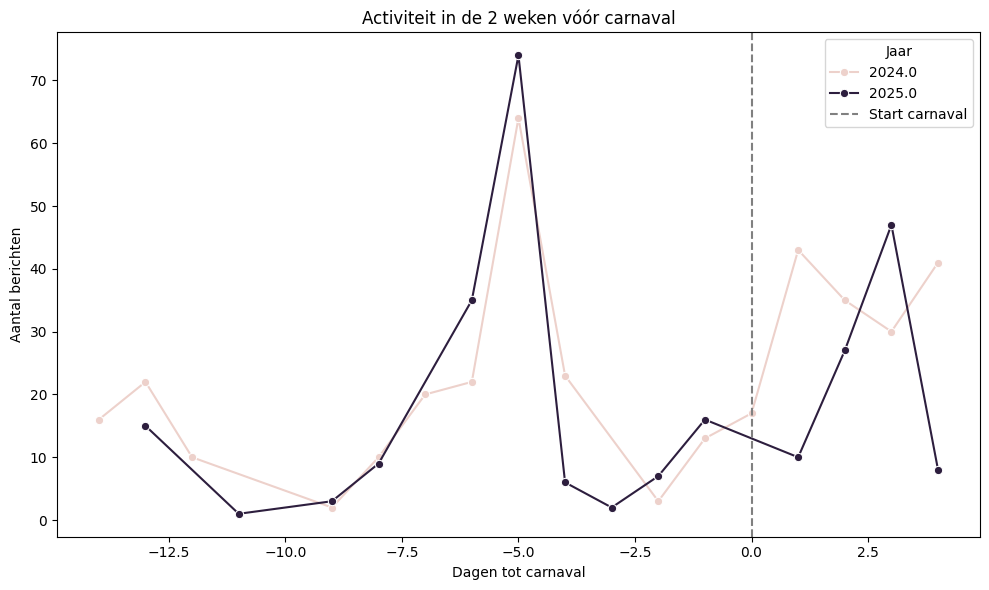
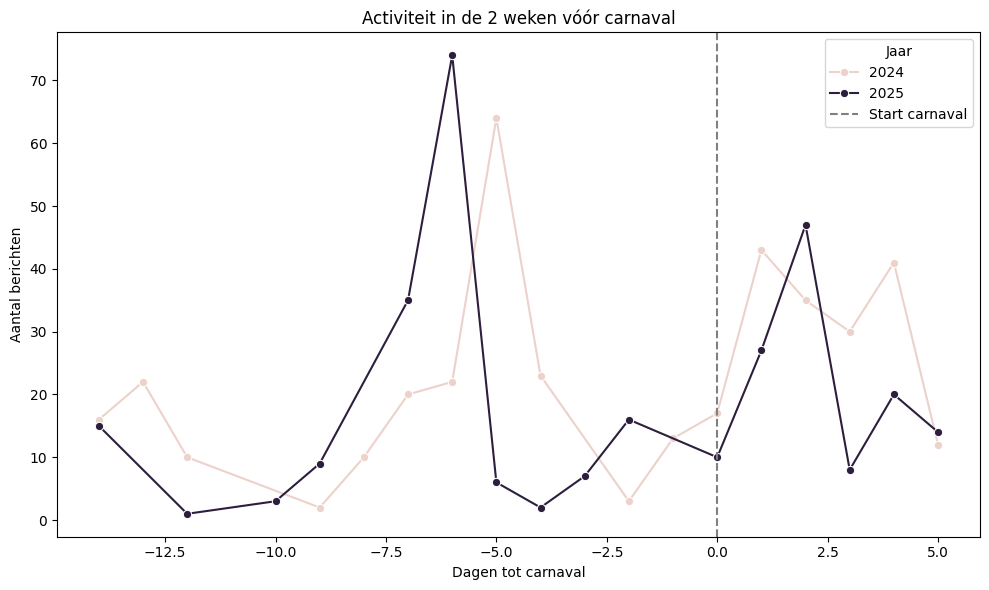
les3 in settings/fix uv lock

diff --git a/src/les3.py b/src/les3.py
@@ -1,55 +1,48 @@
-# src/les3.py
 from pathlib import Path
-
 import matplotlib.pyplot as plt
 import pandas as pd
 import seaborn as sns
 from loguru import logger
 
 
-# Visualisatie 1: Aantal berichten per week (globaal overzicht)
 def generate_weekly_overview_chart(df: pd.DataFrame, output_path: Path):
-    # Zorg dat timestamp een datetime is
-    df["timestamp"] = pd.to_datetime(df["timestamp"])
-
-    # Zet de week-startdatum in een aparte kolom
+    """
+    Genereert een lijnplot van het aantal berichten per week.
+    Carnavalperiodes worden automatisch gemarkeerd op basis van 'is_carnaval'.
+    """
     df["week"] = df["timestamp"].dt.to_period("W").apply(lambda r: r.start_time.date())
 
-    # Filter vanaf 1 september 2023
-    start_date = pd.to_datetime("2023-09-01").date()
-    df_filtered = df[df["week"] >= start_date]
+    # Tel berichten per week
+    weekly_counts = (
+        df.groupby("week")
+        .size()
+        .reset_index(name="message_count")
+    )
 
-    # Tel het aantal berichten per week
-    weekly_counts = df_filtered.groupby("week").size().reset_index(name="message_count")
+    # Carnavalweken uit 'is_carnaval'-kolom
+    carnaval_weken = (
+        df[df["is_carnaval"]]
+        .drop_duplicates("week")
+        .sort_values("week")["week"]
+        .tolist()
+    )
 
-    # Carnavalperiodes definiëren
-    carnavals = [
-        (
-            pd.to_datetime("2024-02-08").date(),
-            pd.to_datetime("2024-02-15").date(),
-            "Carnaval 2024",
-        ),
-        (
-            pd.to_datetime("2025-02-27").date(),
-            pd.to_datetime("2025-03-04").date(),
-            "Carnaval 2025",
-        ),
-    ]
+    carnaval_perioden = group_consecutive(carnaval_weken)
 
-    # Plot aanmaken
+    # Plot
     plt.figure(figsize=(14, 6))
     plt.plot(
         weekly_counts["week"],
         weekly_counts["message_count"],
-        label="Aantal berichten per week",
         color="tab:blue",
+        label="Aantal berichten per week"
     )
 
     # Carnaval visueel markeren
-    for start, end, label in carnavals:
-        plt.axvspan(start, end, color="orange", alpha=0.3, label=label)
+    for i, (start, end) in enumerate(carnaval_perioden):
+        plt.axvspan(start, end, color="orange", alpha=0.3, label=f"Carnaval {i + 1}")
 
-    # Dubbele labels uit de legenda filteren
+    # Legenda opschonen
     handles, labels = plt.gca().get_legend_handles_labels()
     by_label = dict(zip(labels, handles))
     plt.legend(by_label.values(), by_label.keys())
@@ -61,56 +54,56 @@ def generate_weekly_overview_chart(df: pd.DataFrame, output_path: Path):
     plt.tight_layout()
 
     plt.savefig(output_path, bbox_inches="tight")
+    plt.close()
     logger.info(f"Afbeelding opgeslagen als: {output_path}")
 
 
-# Visualisatie 2: Zoom in op de 2 weken vóór carnaval
 def generate_carnaval_detail_chart(df: pd.DataFrame, output_path: Path):
-    # Carnaval startdata per jaar
-    carnaval_data = pd.DataFrame(
-        {
-            "year": [2024, 2025],
-            "start_date": [pd.Timestamp("2024-02-08"), pd.Timestamp("2025-02-27")],
-        }
+    """
+    Zoomt in op de 2 weken vóór en 5 dagen tijdens carnaval,
+    toont activiteit per dag (aantal berichten) per jaar.
+    """
+    df["date"] = df["timestamp"].dt.floor("D")
+    df["year"] = df["timestamp"].dt.year
+
+    # Vind de eerste dag van carnaval per jaar op basis van is_carnaval == True
+    carnaval_start = (
+        df[df["is_carnaval"]]
+        .groupby("year")["date"]
+        .min()
+        .reset_index()
+        .rename(columns={"date": "start_date"})
     )
 
-    # Bepaal bij welke carnavalsperiode een bericht hoort
-    def get_carnaval_year(ts):
-        for _, row in carnaval_data.iterrows():
-            start = row["start_date"]
-            if start - pd.Timedelta(days=14) <= ts <= start + pd.Timedelta(days=5):
-                return row["year"]
-        return None
+    if carnaval_start.empty:
+        logger.warning("Geen carnavalstartdatums gevonden.")
+        return
 
-    # Berekeningen starten
-    df["timestamp"] = pd.to_datetime(df["timestamp"])
-    df["carnaval_year"] = df["timestamp"].apply(get_carnaval_year)
-    df_carnaval = df[df["carnaval_year"].notna()].copy()
+    # Combineer met volledige df (dus niet alleen is_carnaval)
+    df = df.merge(carnaval_start, on="year", how="left")
+    df["days_until_carnaval"] = (df["date"] - df["start_date"]).dt.days
 
-    # Voeg startdatum carnaval toe
-    df_carnaval = df_carnaval.merge(
-        carnaval_data, left_on="carnaval_year", right_on="year", how="left"
-    )
+    # Filter alleen berichten in [-14, +5] rond carnaval
+    df_window = df[df["days_until_carnaval"].between(-14, 5)].copy()
 
-    # Bereken hoeveel dagen tot carnaval
-    df_carnaval["days_until_carnaval"] = (
-        df_carnaval["timestamp"].dt.floor("D") - df_carnaval["start_date"]
-    ).dt.days
+    if df_window.empty:
+        logger.warning("Geen berichten gevonden binnen het carnavalsvenster.")
+        return
 
-    # Tel aantal berichten per dag tot carnaval
+    # Aantal berichten per dag t.o.v. carnaval, per jaar
     agg = (
-        df_carnaval.groupby(["carnaval_year", "days_until_carnaval"])
+        df_window.groupby(["year", "days_until_carnaval"])
         .size()
         .reset_index(name="message_count")
     )
 
-    # Plot maken
+    # Plot
     plt.figure(figsize=(10, 6))
     sns.lineplot(
         data=agg,
         x="days_until_carnaval",
         y="message_count",
-        hue="carnaval_year",
+        hue="year",
         marker="o",
     )
     plt.axvline(0, color="gray", linestyle="--", label="Start carnaval")
@@ -121,15 +114,44 @@ def generate_carnaval_detail_chart(df: pd.DataFrame, output_path: Path):
     plt.tight_layout()
 
     plt.savefig(output_path, bbox_inches="tight")
+    plt.close()
     logger.info(f"Afbeelding opgeslagen als: {output_path}")
 
 
-# Wrapper-functie die beide grafieken aanmaakt vanuit main.py
-def generate_time_charts(df: pd.DataFrame, output_dir: Path):
+def generate_time_charts(df: pd.DataFrame, output_dir: Path, les3_settings: dict):
+    """
+    Wrapperfunctie die beide les 3 visualisaties uitvoert.
+    Bestandsnamen komen uit settings.
+    """
     if df.empty:
         logger.warning("Dataframe is leeg. Geen visualisaties gegenereerd.")
         return
 
-    # Eén functie die beide visualisaties uitvoert
-    generate_weekly_overview_chart(df, output_dir / "les3_weekactiviteit.png")
-    generate_carnaval_detail_chart(df, output_dir / "les3_2weken_detail.png")
+    output_week = output_dir / les3_settings["output_files"]["weekly"]
+    output_detail = output_dir / les3_settings["output_files"]["detail"]
+
+    generate_weekly_overview_chart(df, output_week)
+    generate_carnaval_detail_chart(df, output_detail)
+
+
+def group_consecutive(dates):
+    """
+    Groepeert opeenvolgende weken tot (start, end) tuples.
+    Werkt met gesorteerde week-startdatums als '2024-02-05', '2024-02-12', ...
+    """
+    if not dates:
+        return []
+
+    ranges = []
+    start = prev = dates[0]
+
+    for current in dates[1:]:
+        # Als verschil > 7 dagen, dan begint er een nieuwe reeks
+        if (current - prev).days > 7:
+            ranges.append((start, prev))
+            start = current
+        prev = current
+
+    # Voeg laatste groep toe
+    ranges.append((start, prev))
+    return ranges

diff --git a/src/main.py b/src/main.py
@@ -2,6 +2,7 @@ import argparse
 from pathlib import Path
 
 from config import Config
+from dataloader import load_data_parquet
 from les2 import generate_question_bar_chart
 from les3 import generate_time_charts
 from les4 import generate_distribution_charts
@@ -13,7 +14,7 @@ from settings import Settings
 def run_chart_for_lesson(lesson_number: int, df, img_folder: Path, settings):
     output_map = {
         2: (img_folder, generate_question_bar_chart, settings.les2),
-        3: (img_folder, generate_time_charts, getattr(settings, "les3", {})),
+        3: (img_folder, generate_time_charts, settings.les3),        
         4: (img_folder, generate_distribution_charts, getattr(settings, "les4", {})),
         5: (img_folder, generate_relation_charts, getattr(settings, "les5", {})),
     }
@@ -28,7 +29,7 @@ def run_chart_for_lesson(lesson_number: int, df, img_folder: Path, settings):
 
 def run_all_charts(df, output_folder: Path):
     run_chart_for_lesson(2, df, output_folder, settings)
-    # run_chart_for_lesson(3, df, output_folder)
+    run_chart_for_lesson(3, df, output_folder, settings)
     # run_chart_for_lesson(4, df, output_folder)
     # run_chart_for_lesson(5, df, output_folder)
 
@@ -52,8 +53,10 @@ if __name__ == "__main__":
 
     img_folder = Path(config.img_folder)
 
-    whatsapp_processor = Preprocessor(config, settings)
-    df = whatsapp_processor.run()
+    # whatsapp_processor = Preprocessor(config, settings)
+    # df = whatsapp_processor.run()
+
+    df = load_data_parquet(config)
 
     if args.les:
         run_chart_for_lesson(args.les, df, img_folder, settings)

diff --git a/src/settings.py b/src/settings.py
@@ -1,10 +1,10 @@
 import tomllib
 from pathlib import Path
 from pydantic import BaseModel
-from typing import Dict, List
+from typing import Dict, List, Optional, Any
 
 
-class ColumnMap(BaseModel):
+class Columns(BaseModel):
     author: str
     message: str
     timestamp: str
@@ -14,22 +14,33 @@ class ColumnMap(BaseModel):
     date: str
 
 
-class Settings(BaseModel):
+class PreprocessingSettings(BaseModel):
     start_date: str
+    enabled_steps: List[str]
     auto_messages: Dict[str, List[str]]
     carnaval: Dict[str, List[str]]
-    columns: ColumnMap
-    enabled_steps: List[str]
+    columns: Columns
+
+
+class Settings(BaseModel):
+    # Required
+    preprocessing: PreprocessingSettings
+
+    # Optional lesson-specific config
+    les2: Optional[Dict[str, Any]] = {}
+    les3: Optional[Dict[str, Any]] = {}
+
+    # Metadata
     settings_path: Path
 
-    les2: dict
-
     @classmethod
-    def load(cls, path: Path):
+    def load(cls, path: Path) -> "Settings":
         with path.open("rb") as f:
             data = tomllib.load(f)
+
         return cls(
-            **data["preprocessing"],
-            les2=data["les2"],
-            settings_path=path.resolve()
+            preprocessing=PreprocessingSettings(**data["preprocessing"]),
+            les2=data.get("les2", {}),
+            les3=data.get("les3", {}),
+            settings_path=path.resolve(),
         )

diff --git a/src/preprocessor.py b/src/preprocessor.py
@@ -18,8 +18,8 @@ class Preprocessor:
     def __init__(self, config: Config, settings: Settings):
         """Initialiseer Preprocessor met config- en settingsobject."""
         self.config = config
-        self.settings = settings
-        self.columns = settings.columns
+        self.settings = settings.preprocessing
+        self.columns = self.settings.columns
         self.df = load_data_csv(config)
         self.processed_dir = config.processed_dir
 
@@ -153,8 +153,11 @@ class Preprocessor:
         for step in self.settings.enabled_steps:
             func = getattr(self, step, None)
             if callable(func):
-                logger.info(f"▶ Stap: {step}")
-                func()
+                logger.info(f"Stap: {step}")
+                try:
+                    func()
+                except Exception as e:
+                    logger.error(f"Fout bij stap '{step}': {e}")
             else:
                 logger.warning(f"Stap '{step}' niet gevonden.")
 
